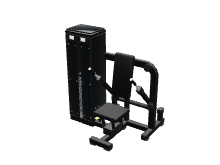
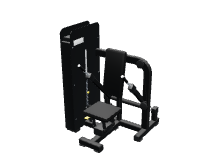
v2.9.5: 시티드 딥의 무게추 타워를 다른 기구와 같은 얇은 판 모양으로

Changed region(s): [[0.2727, 0.1212, 0.7636, 0.9394]]

diff --git a/js/catalog.js b/js/catalog.js
@@ -86,7 +86,7 @@ T('latpull', '랫풀다운', 'machine', 1.2, 1.43, 2.25, [0.9, 0.15, 0.6, 0.6], 
 T('longpull', '롱풀', 'machine', 0.85, 2.22, 2.27, [0.5, 0.15, 0.5, 0.5], {kw:'시티드 케이블 로우 롱풀 row'});
 T('latlong', '랫풀다운 & 롱풀', 'machine', 1.58, 2.01, 2.24, [0.6, 0.15, 0.6, 0.6], {kw:'겸용 랫풀 롱풀'});
 T('seatedrow', '시티드 로우', 'machine', 0.87, 1.29, 1.94, [0.6, 0.15, 0.6, 0.6], {kw:'로우 등 seated row'});
-T('seateddip', '시티드 딥', 'machine', 1.33, 1.11, 1.48, [0.6, 0.15, 0.6, 0.6], {kw:'딥스 삼두 dip'});
+T('seateddip', '시티드 딥', 'machine', 1.04, 1.11, 1.48, [0.6, 0.15, 0.6, 0.6], {kw:'딥스 삼두 dip'});
 T('assistdip', '어시스트 친딥', 'machine', 1.15, 1.28, 2.19, [0.8, 0.15, 0.5, 0.5], {kw:'어시스트 풀업 친업 딥 assist'});
 T('armcurl', '암컬', 'machine', 1.06, 1.32, 1.55, [0.6, 0.15, 0.5, 0.5], {kw:'이두 암컬 biceps curl'});
 T('triceps', '트라이셉스 익스텐션', 'machine', 1.04, 1.06, 1.4, [0.6, 0.15, 0.5, 0.5], {kw:'삼두 triceps'});

diff --git a/sw.js b/sw.js
@@ -4,7 +4,7 @@
                       not have yet (about 20 MB stayed put instead of being fetched again each time). They are still asked for
                       from the site first, so a changed picture or model arrives when online.
    MODELS (kept)      3D libraries and files that never change under the same address: cache first. */
-const CACHE = 'gofit-planner-v3.11.4', ASSETS = 'gofit-assets-v1', MODELS = 'gofit-models-v2';
+const CACHE = 'gofit-planner-v3.11.5', ASSETS = 'gofit-assets-v1', MODELS = 'gofit-models-v2';
 const FILES = [
   './', 'index.html', 'manifest.webmanifest', 'css/app.css',
   'js/core.js', 'js/catalog.js', 'js/media.js', 'vendor/three.min.js', 'vendor/OrbitControls.js', 'js/m3-parts.js', 'js/m3-models-a.js', 'js/m3-models-b.js', 'js/render3d.js', 'js/symbols.js', 'js/plan.js', 'js/checks.js', 'js/ui.js', 'js/overlay.js', 'js/tools.js', 'js/panels.js', 'js/export.js', 'js/viewer3d.js', 'js/view3d.js', 'js/backup.js', 'js/wizard.js', 'js/app.js',

diff --git a/js/core.js b/js/core.js
@@ -2,7 +2,7 @@
 (function () {
 'use strict';
 const GP = window.GP = window.GP || {};
-GP.VERSION = '2.9.4';
+GP.VERSION = '2.9.5';
 GP.errors = [];
 window.addEventListener('error', e => { GP.errors.push(String(e.message || e)); });
 window.addEventListener('unhandledrejection', e => { GP.errors.push('promise: ' + String(e.reason && e.reason.message || e.reason)); });
